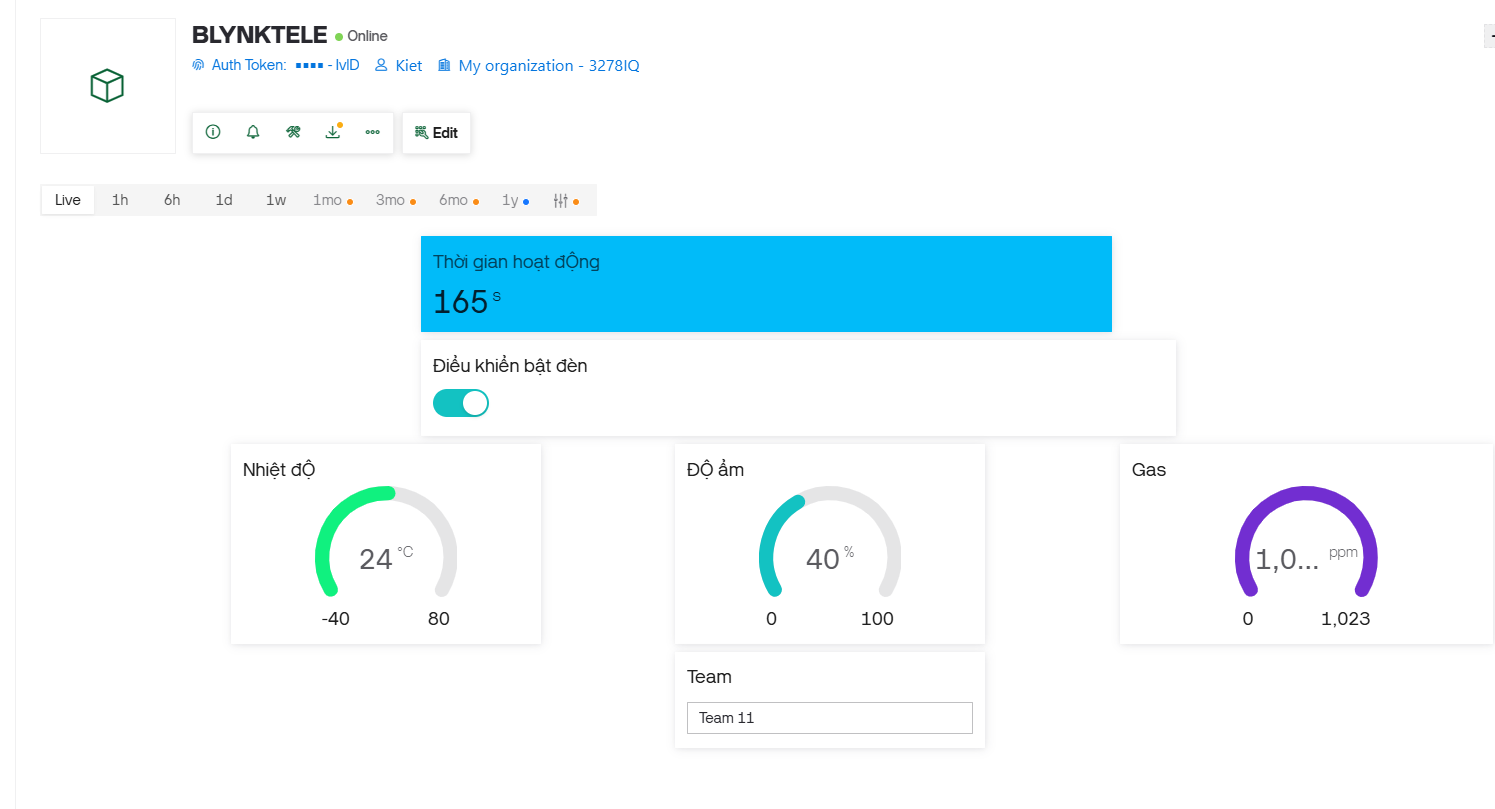
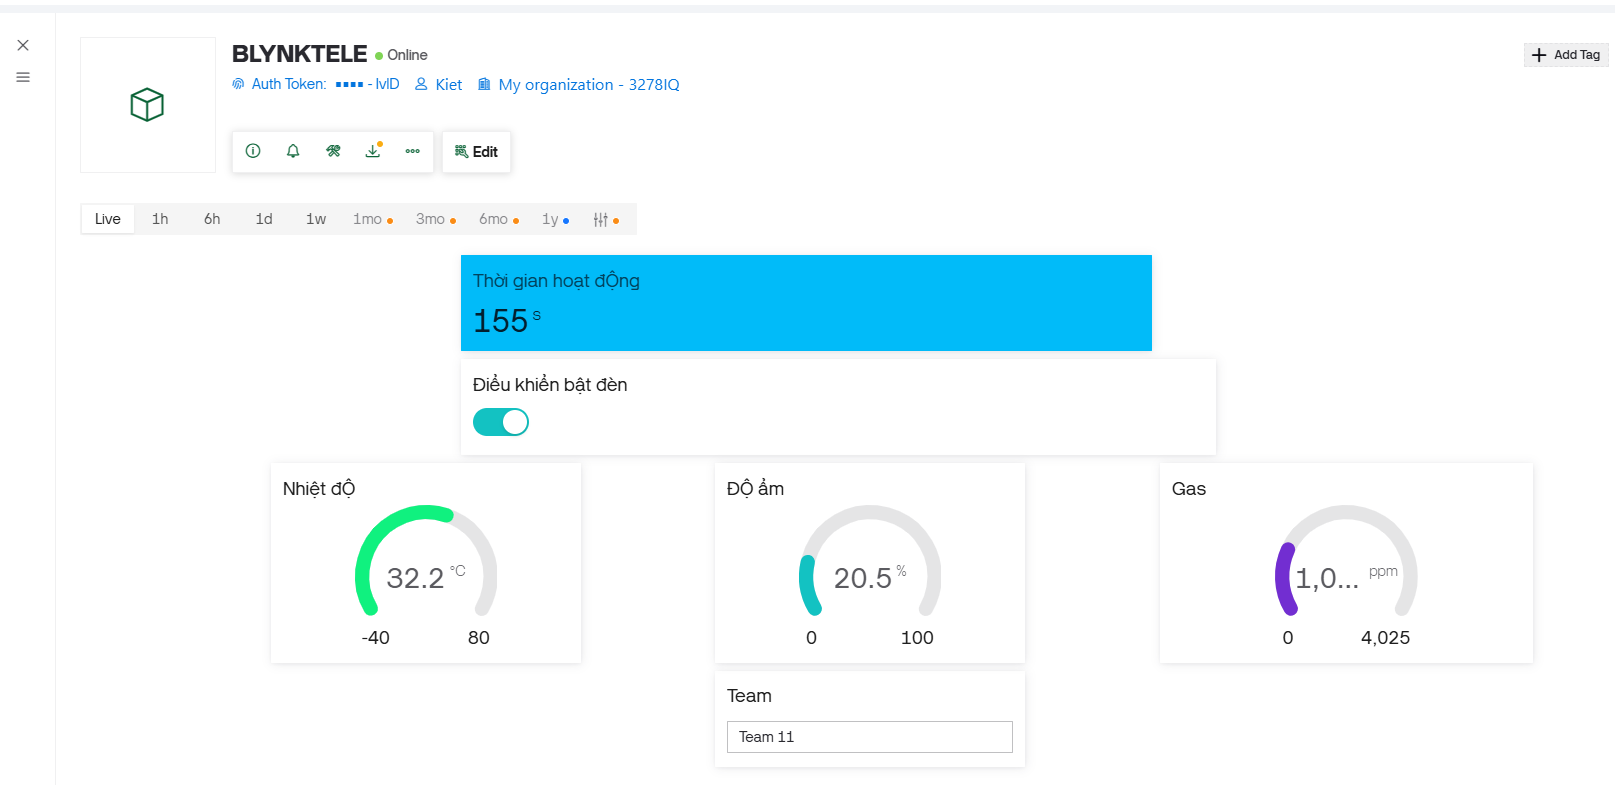
update

diff --git a/TEAM_11/ESP8266_BLYNK_TELEGRAM/README.md b/TEAM_11/ESP8266_BLYNK_TELEGRAM/README.md
@@ -2,4 +2,4 @@
 
  - [Ảnh Blynk](Blynk.png)
 
-- [Ảnh Telegram](Tele.png)
+- [Ảnh Telegram](Telegram.png)
